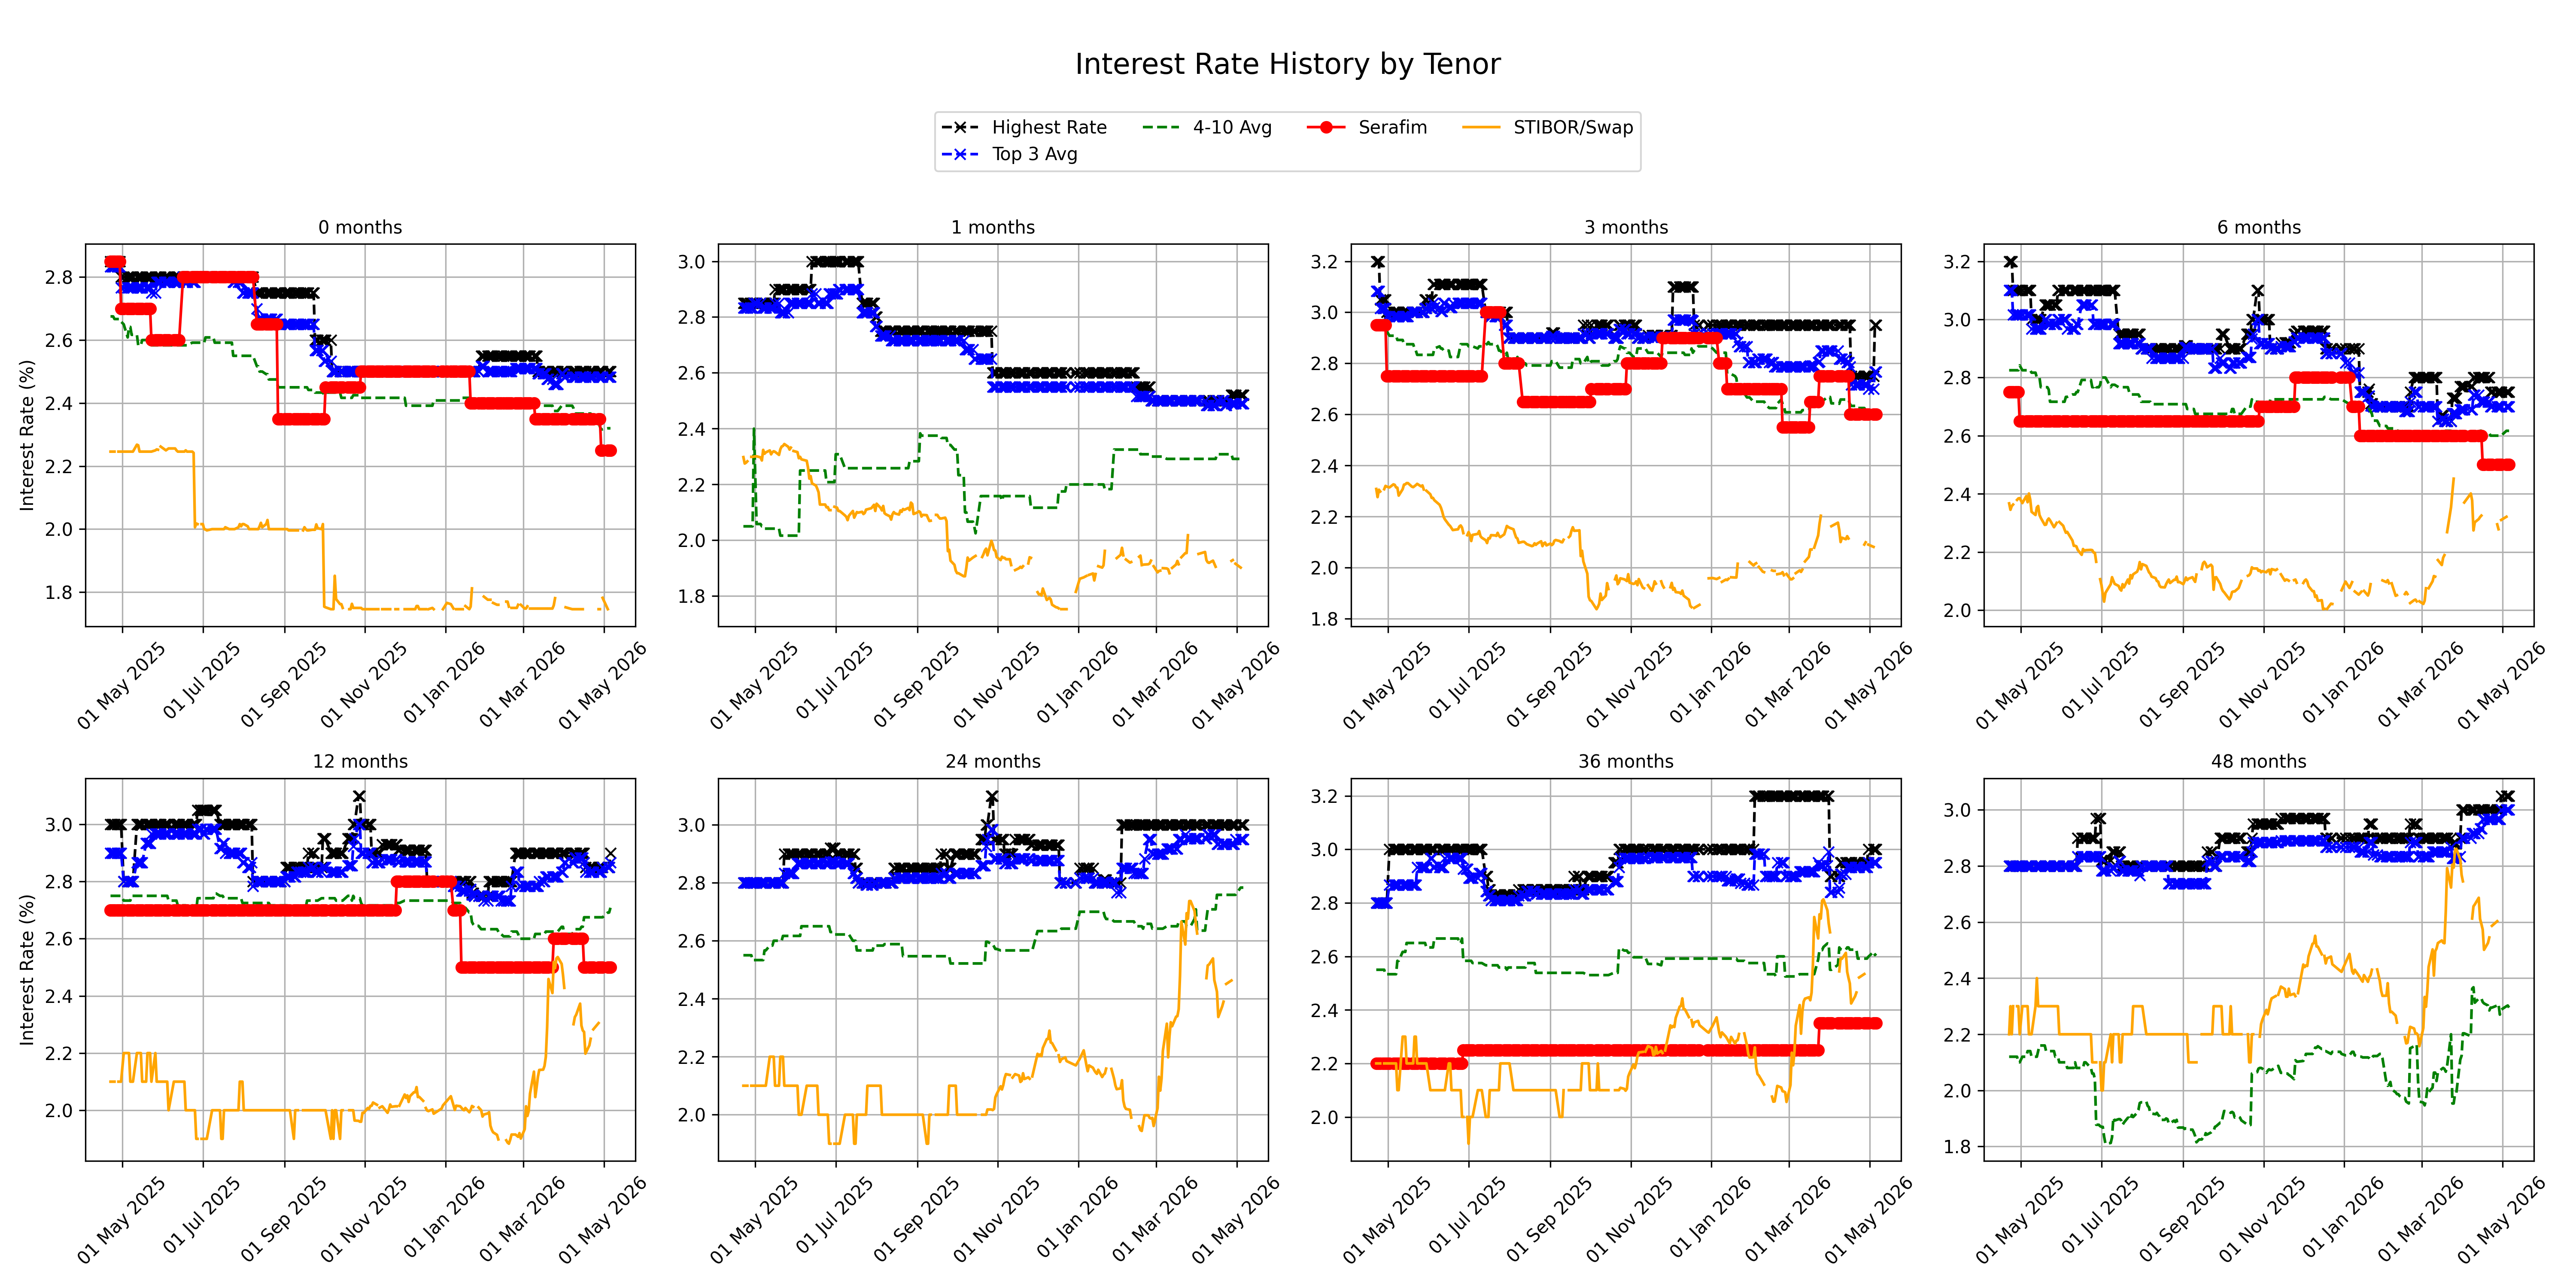
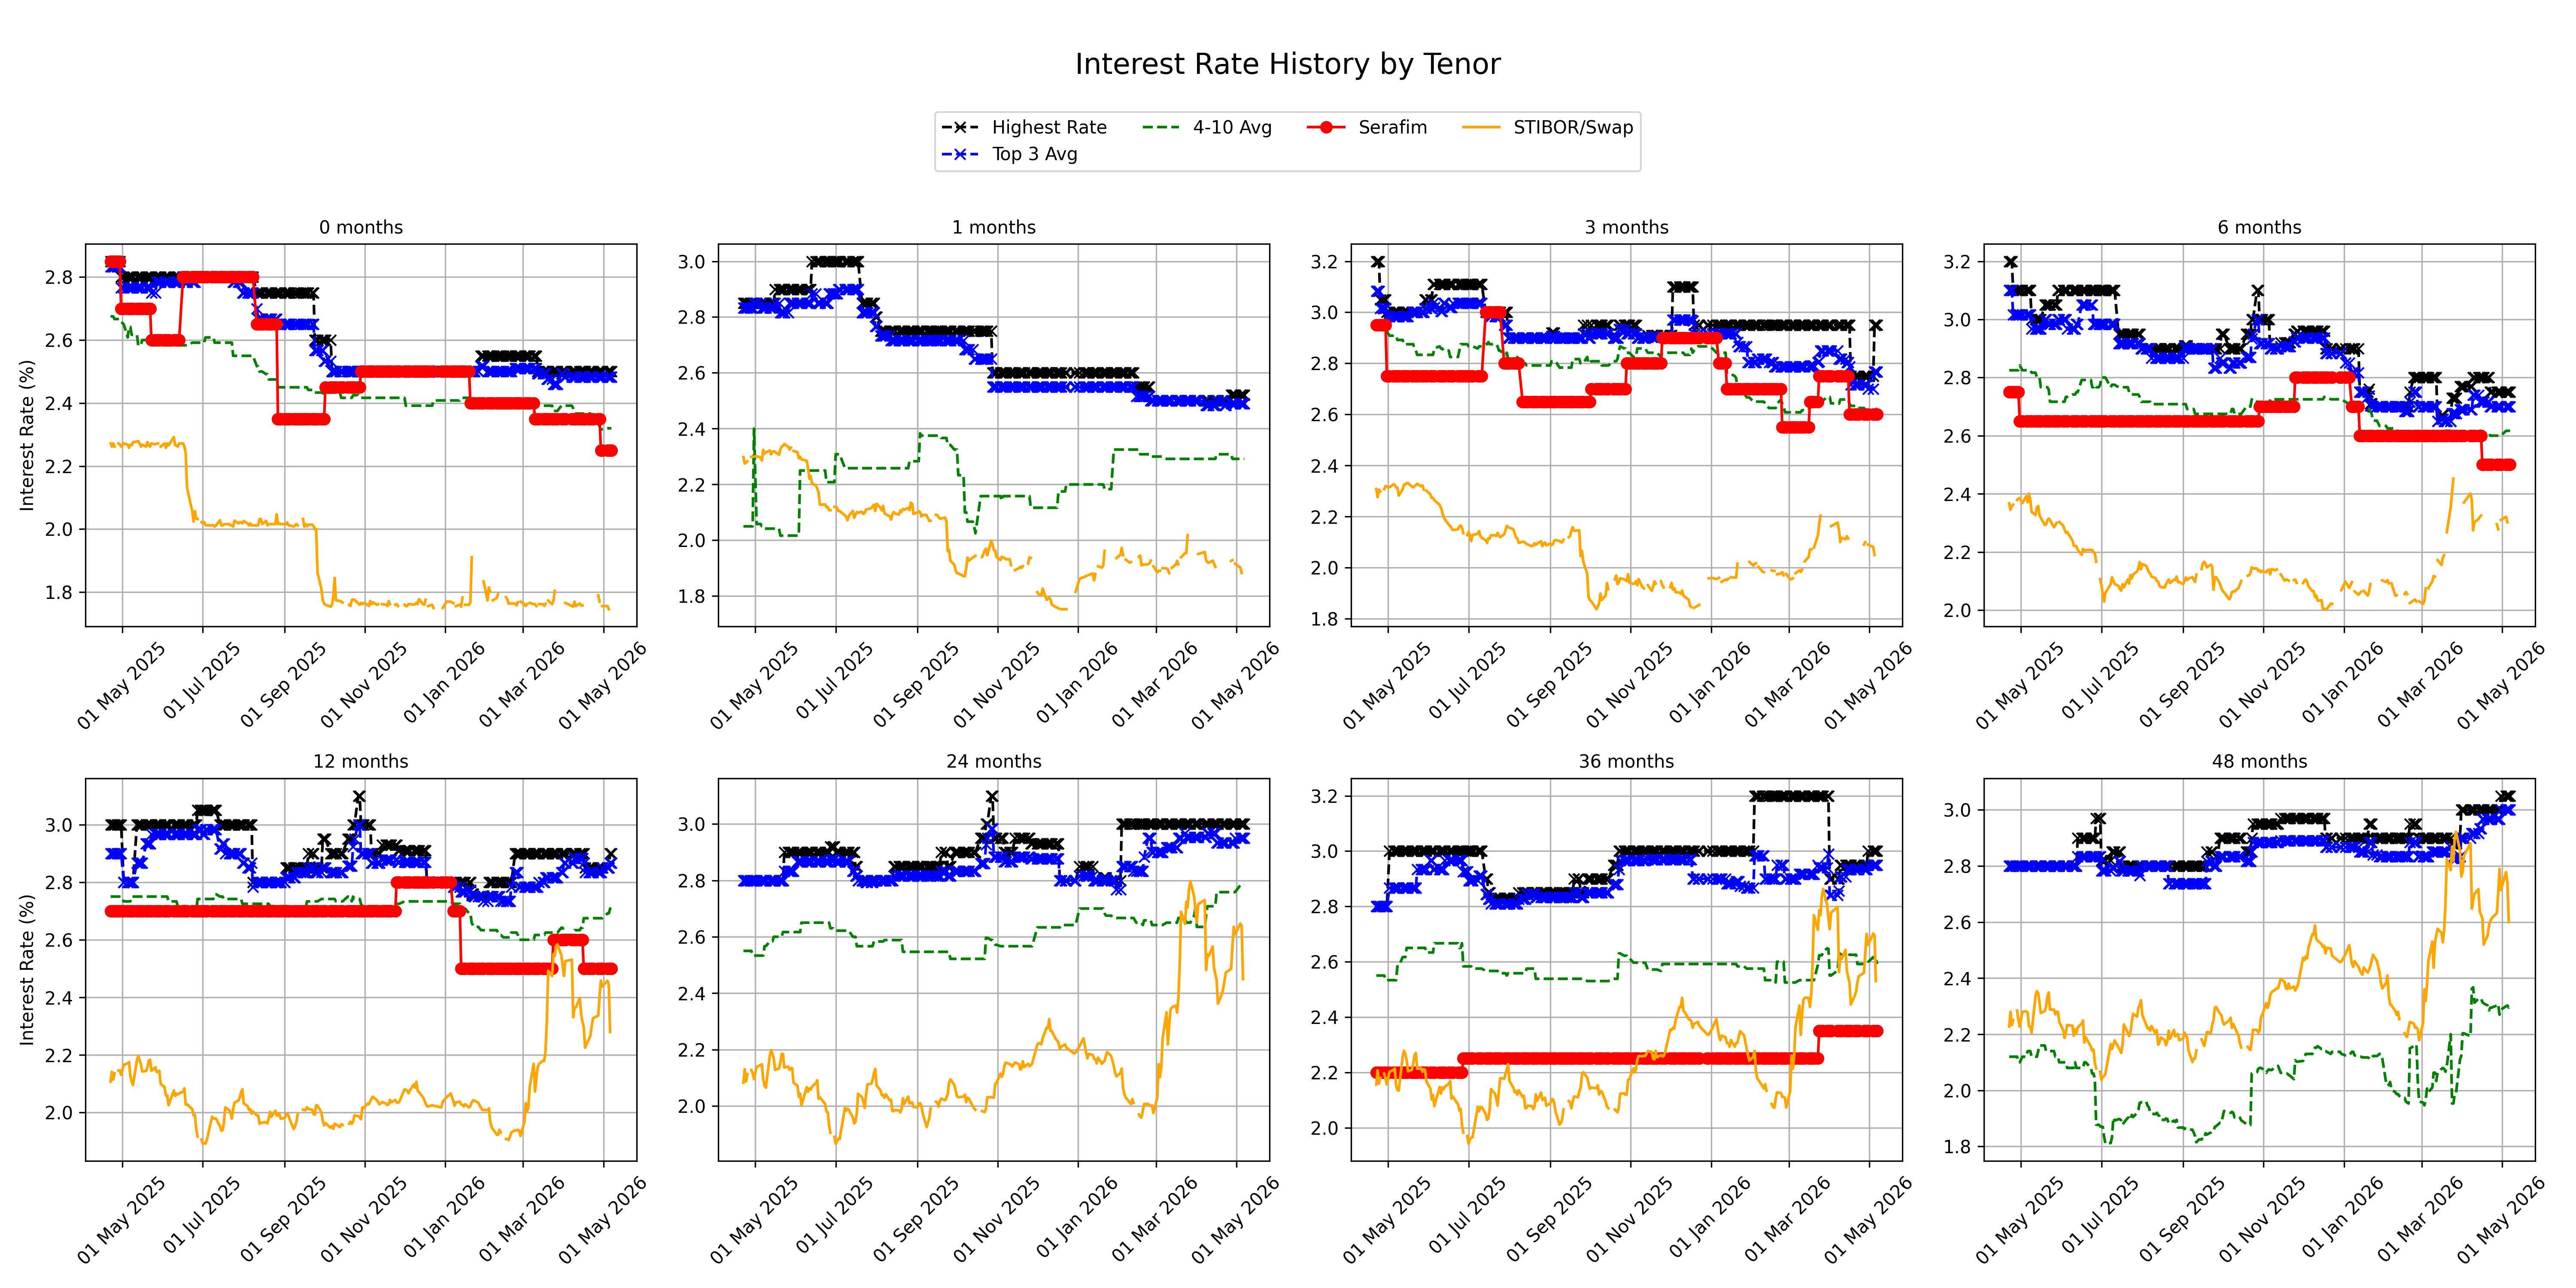
upd

diff --git a/Serafim/index.html b/Serafim/index.html
@@ -81,7 +81,7 @@
 
     <h1>Competitor Overview - Serafim</h1>
     <div style="text-align: right; color: #555; font-size: 0.9em;">
-        Updated: 2026-05-06
+        Updated: 2026-05-07
     </div>
     
     <!-- Tab buttons -->
@@ -250,34 +250,6 @@
       <td>-</td>
     </tr>
     <tr>
-      <th>Moank</th>
-      <td>2.30</td>
-      <td>2.52</td>
-      <td>2.60</td>
-      <td>-</td>
-      <td>-</td>
-      <td>-</td>
-      <td>-</td>
-      <td>-</td>
-      <td>-</td>
-      <td>-</td>
-      <td>-</td>
-    </tr>
-    <tr>
-      <th>EP Bank</th>
-      <td>2.30</td>
-      <td>-</td>
-      <td>2.50</td>
-      <td>2.50</td>
-      <td>-</td>
-      <td>2.40</td>
-      <td>2.25</td>
-      <td>2.00</td>
-      <td>-</td>
-      <td>-</td>
-      <td>-</td>
-    </tr>
-    <tr>
       <th>Borgo</th>
       <td>2.30</td>
       <td>-</td>
@@ -287,6 +259,20 @@
       <td>2.40</td>
       <td>2.20</td>
       <td>2.20</td>
+      <td>-</td>
+      <td>-</td>
+      <td>-</td>
+    </tr>
+    <tr>
+      <th>Moank</th>
+      <td>2.30</td>
+      <td>2.52</td>
+      <td>2.60</td>
+      <td>-</td>
+      <td>-</td>
+      <td>-</td>
+      <td>-</td>
+      <td>-</td>
       <td>-</td>
       <td>-</td>
       <td>-</td>
@@ -348,10 +334,24 @@
       <td>-</td>
     </tr>
     <tr>
+      <th>EP Bank</th>
+      <td>2.10 (-0.20)</td>
+      <td>-</td>
+      <td>2.50</td>
+      <td>2.50</td>
+      <td>-</td>
+      <td>2.40</td>
+      <td>2.25</td>
+      <td>2.00</td>
+      <td>-</td>
+      <td>-</td>
+      <td>-</td>
+    </tr>
+    <tr>
       <th>Bankaktiebolaget Nordiska</th>
       <td>2.10</td>
       <td>-</td>
-      <td>2.60</td>
+      <td>2.65 (+0.05)</td>
       <td>2.60</td>
       <td>2.60</td>
       <td>2.60</td>
@@ -592,11 +592,11 @@
       <td>-</td>
       <td>-</td>
       <td>-</td>
-      <td>2.90 (+0.20)</td>
+      <td>2.90</td>
       <td>2.80</td>
       <td>-</td>
       <td>-</td>
-      <td>3.20 (+0.20)</td>
+      <td>3.20</td>
       <td>-</td>
     </tr>
     <tr>
@@ -676,11 +676,11 @@
       <td>1.75</td>
       <td>1.80</td>
       <td>-</td>
-      <td>1.95 (-0.04)</td>
-      <td>2.33 (+0.04)</td>
-      <td>2.46 (+0.03)</td>
+      <td>1.92 (-0.03)</td>
+      <td>2.20 (-0.13)</td>
+      <td>2.34 (-0.12)</td>
       <td>-</td>
-      <td>2.67 (+0.03)</td>
+      <td>2.57 (-0.10)</td>
       <td>-</td>
     </tr>
     <tr>
@@ -733,10 +733,10 @@
       <td>1.90</td>
       <td>-</td>
       <td>2.05</td>
-      <td>2.07 (-0.02)</td>
-      <td>2.13 (-0.02)</td>
-      <td>2.18 (-0.03)</td>
-      <td>1.98 (-0.02)</td>
+      <td>2.07</td>
+      <td>2.14 (+0.01)</td>
+      <td>2.19 (+0.01)</td>
+      <td>1.98</td>
       <td>-</td>
     </tr>
     <tr>
@@ -808,17 +808,31 @@
   </thead>
   <tbody>
     <tr>
-      <th>Ikano Bank</th>
-      <td>1.15</td>
-      <td>1.45</td>
+      <th>EP Bank</th>
+      <td>2.10 (-0.20)</td>
+      <td>-</td>
+      <td>2.50</td>
+      <td>2.50</td>
+      <td>-</td>
+      <td>2.40</td>
+      <td>2.25</td>
+      <td>2.00</td>
       <td>-</td>
       <td>-</td>
       <td>-</td>
-      <td>2.90 (+0.20)</td>
+    </tr>
+    <tr>
+      <th>Bankaktiebolaget Nordiska</th>
+      <td>2.10</td>
+      <td>-</td>
+      <td>2.65 (+0.05)</td>
+      <td>2.60</td>
+      <td>2.60</td>
+      <td>2.60</td>
+      <td>2.70</td>
+      <td>2.75</td>
       <td>2.80</td>
-      <td>-</td>
-      <td>-</td>
-      <td>3.20 (+0.20)</td>
+      <td>2.85</td>
       <td>-</td>
     </tr>
     <tr>
@@ -828,11 +842,11 @@
       <td>1.75</td>
       <td>1.80</td>
       <td>-</td>
-      <td>1.95 (-0.04)</td>
-      <td>2.33 (+0.04)</td>
-      <td>2.46 (+0.03)</td>
+      <td>1.92 (-0.03)</td>
+      <td>2.20 (-0.13)</td>
+      <td>2.34 (-0.12)</td>
       <td>-</td>
-      <td>2.67 (+0.03)</td>
+      <td>2.57 (-0.10)</td>
       <td>-</td>
     </tr>
     <tr>
@@ -843,10 +857,10 @@
       <td>1.90</td>
       <td>-</td>
       <td>2.05</td>
-      <td>2.07 (-0.02)</td>
-      <td>2.13 (-0.02)</td>
-      <td>2.18 (-0.03)</td>
-      <td>1.98 (-0.02)</td>
+      <td>2.07</td>
+      <td>2.14 (+0.01)</td>
+      <td>2.19 (+0.01)</td>
+      <td>1.98</td>
       <td>-</td>
     </tr>
   </tbody>